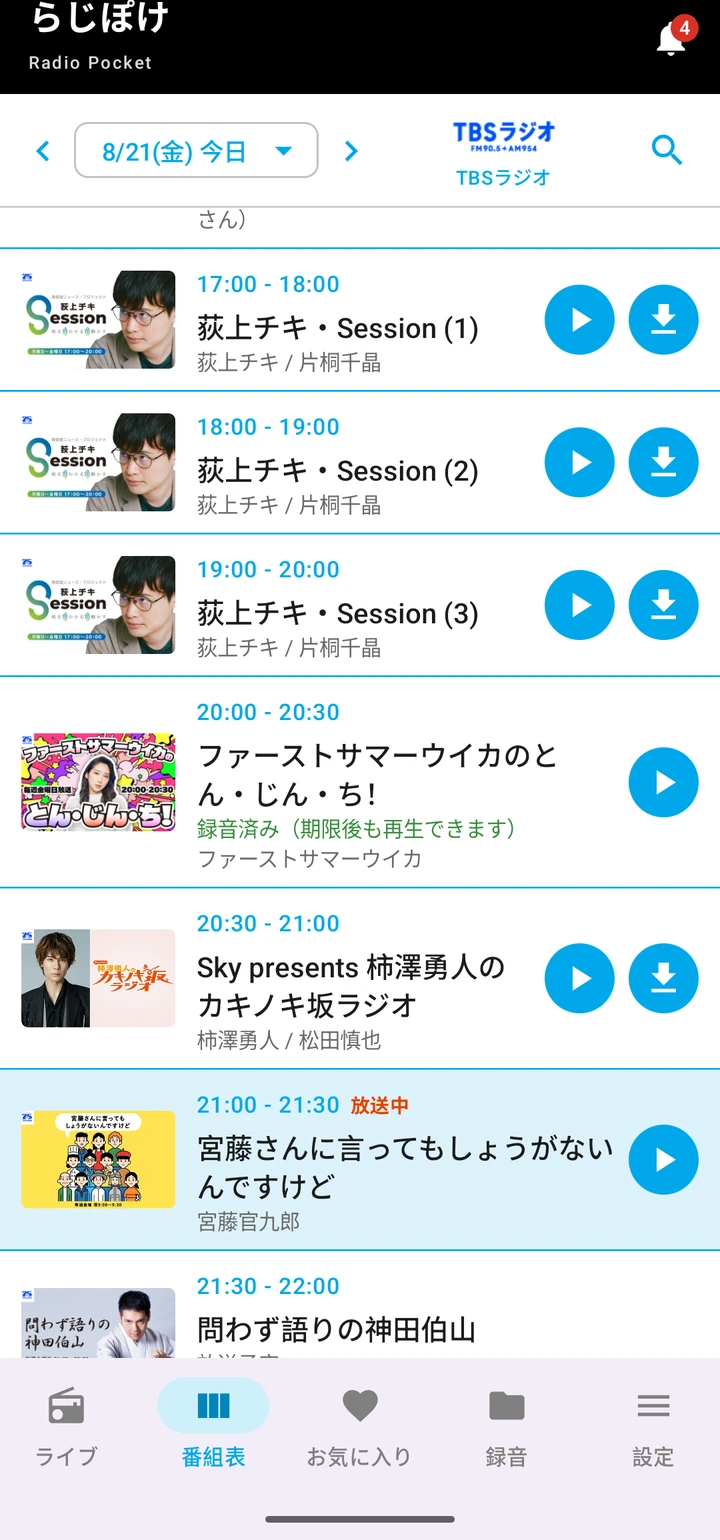
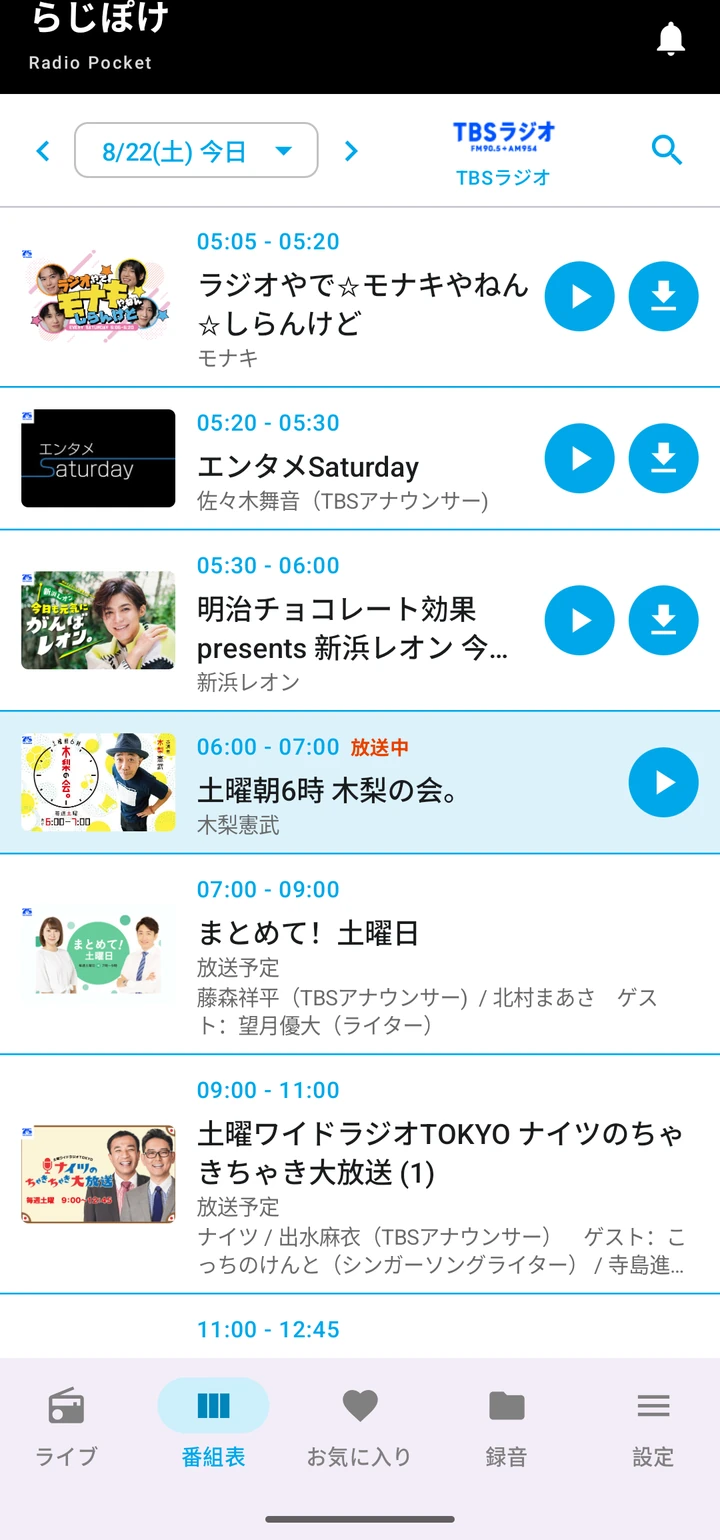
feat: クローズドテストの参加をフォーム受付に変える (#27)
Google フォームで申し込みを受けることにしたので、参加の流れを4段階で
書き直す。フォームに登録しただけでは始まらず、テスターリストへの登録の
あとに本人がオプトインする必要がある。ここを飛ばすと「アプリが見つかり
ません」になり、リンクが壊れていると誤解されるので、理由を添えて明記した。

- 「Gmail アドレスを添えてメールで」の案内をフォームへの誘導に置き換え
  メールは問い合わせ先として残す
- 参加の条件（Google アカウント / Android 7.0 以降・iPhone 不可 /
  テスト期間中は無料）を先頭に置く
- index にフォームの URL を載せ、詳しい手順は test へ誘導する

あわせて、番組表とプレイヤーの通知バッジを消して撮り直した。

diff --git a/test.md b/test.md
@@ -12,41 +12,56 @@ title: クローズドテスト
 
 らじぽけは現在、Google Play でクローズドテストを行っています。テスターを募集しています。
 
-## 参加の前に
+## 参加の条件
 
-- 参加には **Google アカウント（Gmail アドレス）** が必要です
-- **あらかじめ登録されたアドレスの方だけ**が参加できます。登録されていないアドレスでは、下のリンクを開いても参加できません
-- 参加をご希望の方は、お使いの Gmail アドレスを添えて **radiopocket.jp@gmail.com** までご連絡ください。登録のうえ、こちらからご返信します
+- **Google アカウント（Gmail アドレス）** が必要です
+- **Android 7.0 以降** の端末が必要です。**iPhone では動作しません**
+- **テスト期間中は無料** でお使いいただけます
 
-## 参加の手順
+## 参加の流れ
 
-**必ず 1 → 2 の順に開いてください。**
+**4段階あります。** 手順1と2が終わるまで、手順3・4には進めません。
 
-### 1. ウェブで参加する
+### 1. 登録フォームから申し込む
+
+<https://forms.gle/9D5uzvWPCsjUoy3C7>
+
+お使いの Gmail アドレスをご記入ください。テストへの参加には、このアドレスの登録が必要です。
+
+### 2. こちらでテスターリストに登録する（数日以内）
+
+いただいたアドレスを、こちらでテスターリストに登録します。**ここは開発側の作業です。数日以内に登録し、終わりましたらメールでご連絡します。** それまでお待ちください。
+
+### 3. ご連絡を受けてから、参加リンクを開く
 
 <https://play.google.com/apps/testing/ca.radipocket>
 
-このページで「テスターになる」を選ぶと、参加の手続きが終わります。
+このページで「テスターになる」を選びます。
 
-### 2. Android でインストールする
+**フォームに登録しただけでは、テストは始まりません。** テスターリストに登録されたあと、ご自身でこのページから参加の手続き（オプトイン）をしていただく必要があります。
+
+### 4. ストアからインストールする
 
 <https://play.google.com/store/apps/details?id=ca.radipocket>
 
-参加の手続きが終わったあとで、Android 端末からこちらを開いてインストールします。
+手順3が終わったあとで、Android 端末からこちらを開いてインストールします。
 
-### 順番が大事な理由
+## 「アプリが見つかりません」と表示されたときは
 
-**1 を済ませていない状態で 2 を開くと、「アプリが見つかりません」と表示されます。** リンクが壊れているわけではありません。参加していないアカウントからは、テスト中のアプリが見えないためです。この表示が出たら、1 に戻ってやり直してください。
+**リンクが壊れているわけではありません。** 参加していないアカウントからは、テスト中のアプリが見えないためです。まず、次のどちらかに当てはまっていないかご確認ください。
 
-### うまくいかないときは
+- **手順2のご連絡が届く前に、手順3・4のリンクを開いた** — ご連絡が届くまでお待ちください
+- **手順3をとばして、手順4のリンクを開いた** — 手順3に戻り、「テスターになる」を選んでからやり直してください
 
-- **1 で使った Google アカウントと、Android 端末の Google Play にログインしているアカウントを同じにしてください。** 別のアカウントだと、Play にアプリが出てきません
+それでも表示される場合は、次もご確認ください。
+
+- **手順3で使った Google アカウントと、Android 端末の Google Play にログインしているアカウントを同じにしてください。** 別のアカウントだと、Play にアプリが出てきません
 - 参加した直後は Play 側の反映に時間がかかることがあります。すぐに出てこない場合は、しばらく置いてからお試しください
-- それでも出てこない場合は、ご連絡ください
+- それでも出てこない場合は、下記までご連絡ください
 
 ## 動作環境
 
-- Android 6.0 以降
+- Android 7.0 以降
 - 放送の受信と番組表の取得にインターネット接続が必要です
 - 録音した番組を保存するための空き容量が必要です（1時間の番組でおよそ 20MB）
 
@@ -63,7 +78,9 @@ title: クローズドテスト
 
 端末の機種と Android のバージョンを添えていただけると、原因を探しやすくなります。
 
-## ご報告先
+## お問い合わせ・ご報告先
+
+参加のお申し込みは、上記の登録フォームからお願いします。それ以外のお問い合わせ、および不具合のご報告は、こちらまでどうぞ。
 
 **らじぽけ開発チーム**
 

diff --git a/index.md b/index.md
@@ -12,7 +12,7 @@ Android 向けのラジオ録音アプリです。
 
 radiko で配信されている放送を、いま流れているところからでも、放送が終わったあとからでも聴けます。番組はそのまま端末に録音でき、電波の届かないところでも、あとから好きなときに再生できます。お気に入りに入れた番組は、放送のたびに自動で録音します。
 
-Android 6.0 以降で動きます。
+Android 7.0 以降で動きます。
 
 ## 画面
 
@@ -58,7 +58,11 @@ Android 6.0 以降で動きます。
 
 ## クローズドテスト
 
-現在、Google Play でクローズドテストを行っています。**テスターを募集しています。** 参加の手順は [クローズドテストのご案内](test.html) をご覧ください。
+現在、Google Play でクローズドテストを行っています。**テスターを募集しています。**
+
+参加をご希望の方は、[登録フォーム](https://forms.gle/9D5uzvWPCsjUoy3C7) からお申し込みください。テスターリストへの登録が終わりましたら、こちらからメールでご連絡します。
+
+お申し込みから利用開始までは4段階あります。くわしい手順は [クローズドテストのご案内](test.html) をご覧ください。
 
 ## ご注意
 
